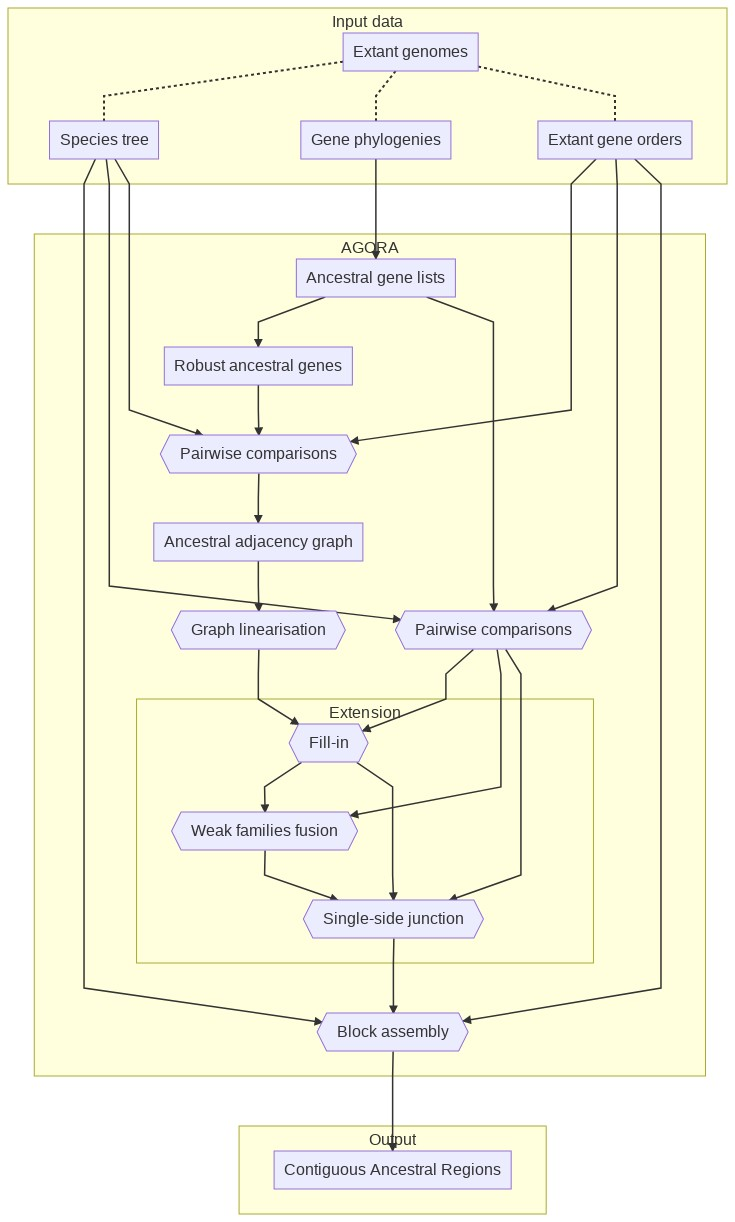
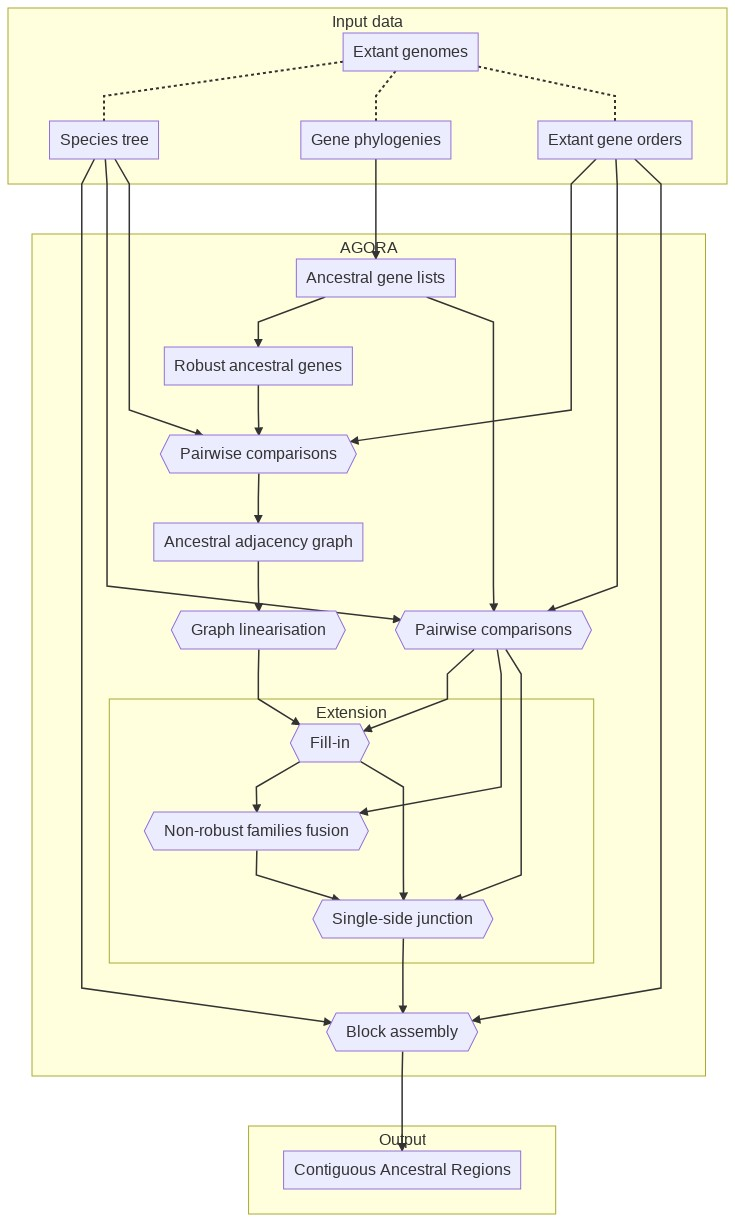
Use non-robust instead of weak

diff --git a/doc/HowTo.md b/doc/HowTo.md
@@ -337,7 +337,7 @@ robust genes separately), build the adjacency graphs on the comparisons
 of robust genes and
 linearise them to obtain robust contigs. It will then _fill in_ the robust
 contigs with non-robust genes, build contigs of non-robust
-genes (_weak families fusion_) and insert these in the filled-in robust
+genes (_non-robust families fusion_) and insert these in the filled-in robust
 contigs (_single side junction_). Finally it will assemble the resulting
 contigs (block assembly) into Contiguous Ancestral Regions (CARs).
 
@@ -410,8 +410,8 @@ src/buildSynteny.integr-denovo.py \
 
 ##### Fill-in
 
-This step will insert weak genes in each interval of the ancestral contigs, but
-only following paths in the ancestral adjacency graph.
+This step will insert non-robust genes in each interval of the ancestral contigs,
+following paths in the complete ancestral adjacency graph.
 
 ```bash
 src/buildSynteny.integr-refine.py \
@@ -424,10 +424,10 @@ src/buildSynteny.integr-refine.py \
   2> example/results/ancGenomes/denovo-size-1.0-1.0.refine-all/log
 ```
 
-##### Weak families fusion
+##### Non-robust families fusion
 
-This step will take all the remaining singletons (`+onlySingletons` option), which
-are mainly "weak", and try to assemble them into contigs.
+This step will take all the remaining singletons, which
+are mostly non-robust genes, and try to assemble them into contigs.
 
 ```bash
 src/buildSynteny.integr-extend.py \
@@ -442,7 +442,7 @@ src/buildSynteny.integr-extend.py \
 
 ##### Single-side junction
 
-This step will insert the contigs of weak families created above and insert them in the CARs.
+This step will insert the contigs of non-robust families created above and insert them in the CARs.
 
 ```bash
 src/buildSynteny.integr-halfinsert.py \
@@ -459,7 +459,7 @@ src/buildSynteny.integr-halfinsert.py \
 ##### Block assembly
 
 Like in non-robust mode, this step will do pairwise comparisons and a graph linearisation
-on the previous CARs, which allows finding higher-level adjacencies.
+of the CARs themselves, which allows finding higher-level adjacencies.
 
 &#9888; **Warning**: The name of the ancestor has to be repeated !
 
